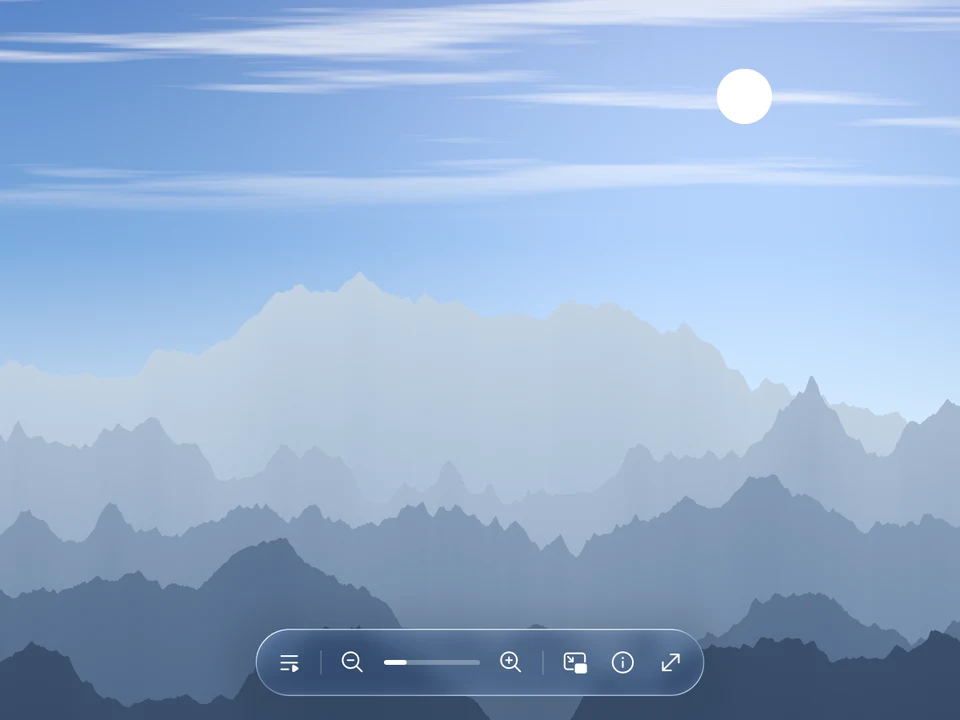
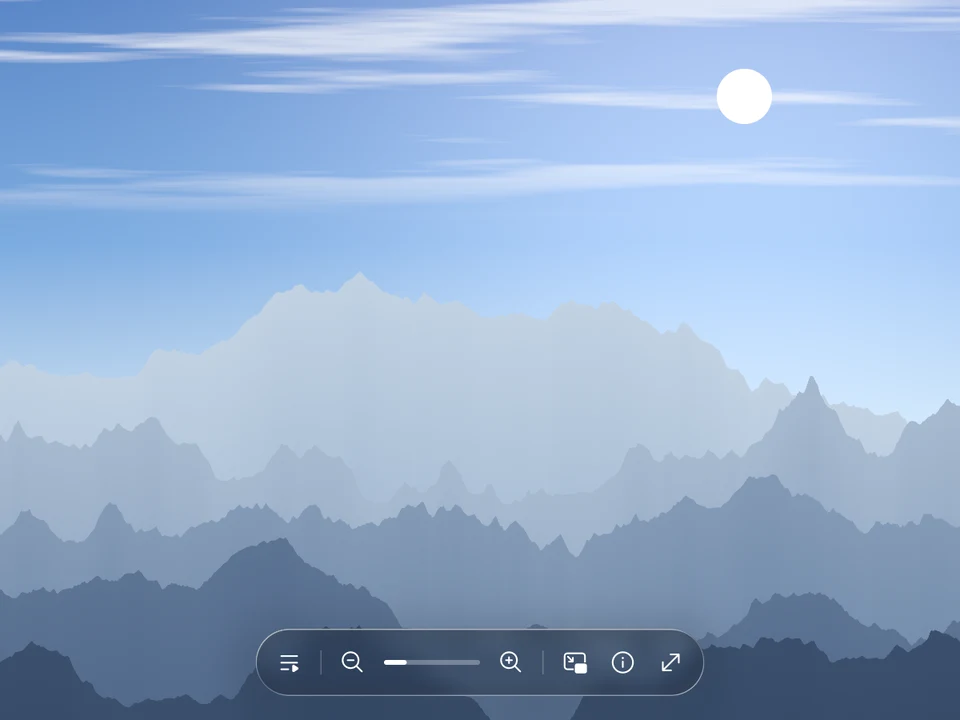
Reworked glass effect

Changed region(s): [[0.25, 0.8556, 0.75, 0.9778]]

diff --git a/docs/USER_OPTS.md b/docs/USER_OPTS.md
@@ -54,9 +54,9 @@ Create `modernz.conf` in your mpv script-opts directory:
 | ----------------------- | ---------------- | -------------------------------------------------------------------------------- |
 | show_title              | yes              | show title in the OSC                                                            |
 | title                   | `${media-title}` | title: `"${media-title}"` or `"${filename}"`                                     |
-| title_font_size         | 17               | font size of the title text                                                      |
+| title_font_size         | 19               | font size of the title text                                                      |
 | truncate_title          | no               | truncate title with ellipsis if it overflows                                     |
-| chapter_title_font_size | 14               | chapter title font size                                                          |
+| chapter_title_font_size | 15               | chapter title font size                                                          |
 | show_chapter_title      | yes              | show chapter title                                                               |
 | chapter_above_title     | no               | show chapter above title                                                         |
 | chapter_fmt             | %s               | format for chapter display on seekbar hover (set to `"no"` to disable)           |
@@ -64,7 +64,7 @@ Create `modernz.conf` in your mpv script-opts directory:
 | timems                  | no               | show timecodes with milliseconds                                                 |
 | unicodeminus            | no               | use the Unicode minus sign in remaining time                                     |
 | time_format             | dynamic          | `"dynamic"` or `"fixed"`. shows MM:SS when possible, fixed always shows HH:MM:SS |
-| time_font_size          | 14               | font size of the time display                                                    |
+| time_font_size          | 15               | font size of the time display                                                    |
 | cache_info              | no               | show cached time information                                                     |
 | cache_info_speed        | no               | show current cache speed per second                                              |
 | cache_info_font_size    | 12               | font size of the cache information                                               |
@@ -140,7 +140,7 @@ These options apply to the default layout's panel and to the menus, tooltips, th
 | Option                    | Value   | Description                                                                                                                                      |
 | ------------------------- | ------- | ------------------------------------------------------------------------------------------------------------------------------------------------ |
 | glass_color               | #17181C | tint of glass surfaces                                                                                                                           |
-| glass_opacity             | 14      | tint strength in percent, from clear (`0`) to solid (`100`); without the frosted backdrop glass stays at least 62% opaque so text stays readable |
+| glass_opacity             | 38      | tint strength in percent, from clear (`0`) to solid (`100`); without the frosted backdrop glass stays at least 62% opaque so text stays readable |
 | glass_border_opacity      | 8       | opacity of the hairline light edge around glass surfaces, in percent                                                                             |
 | glass_shadow              | yes     | soft shadow under glass surfaces                                                                                                                 |
 | glass_blur                | yes     | blur the video behind glass surfaces (needs `vo=gpu-next`; off for rotated video)                                                               |
